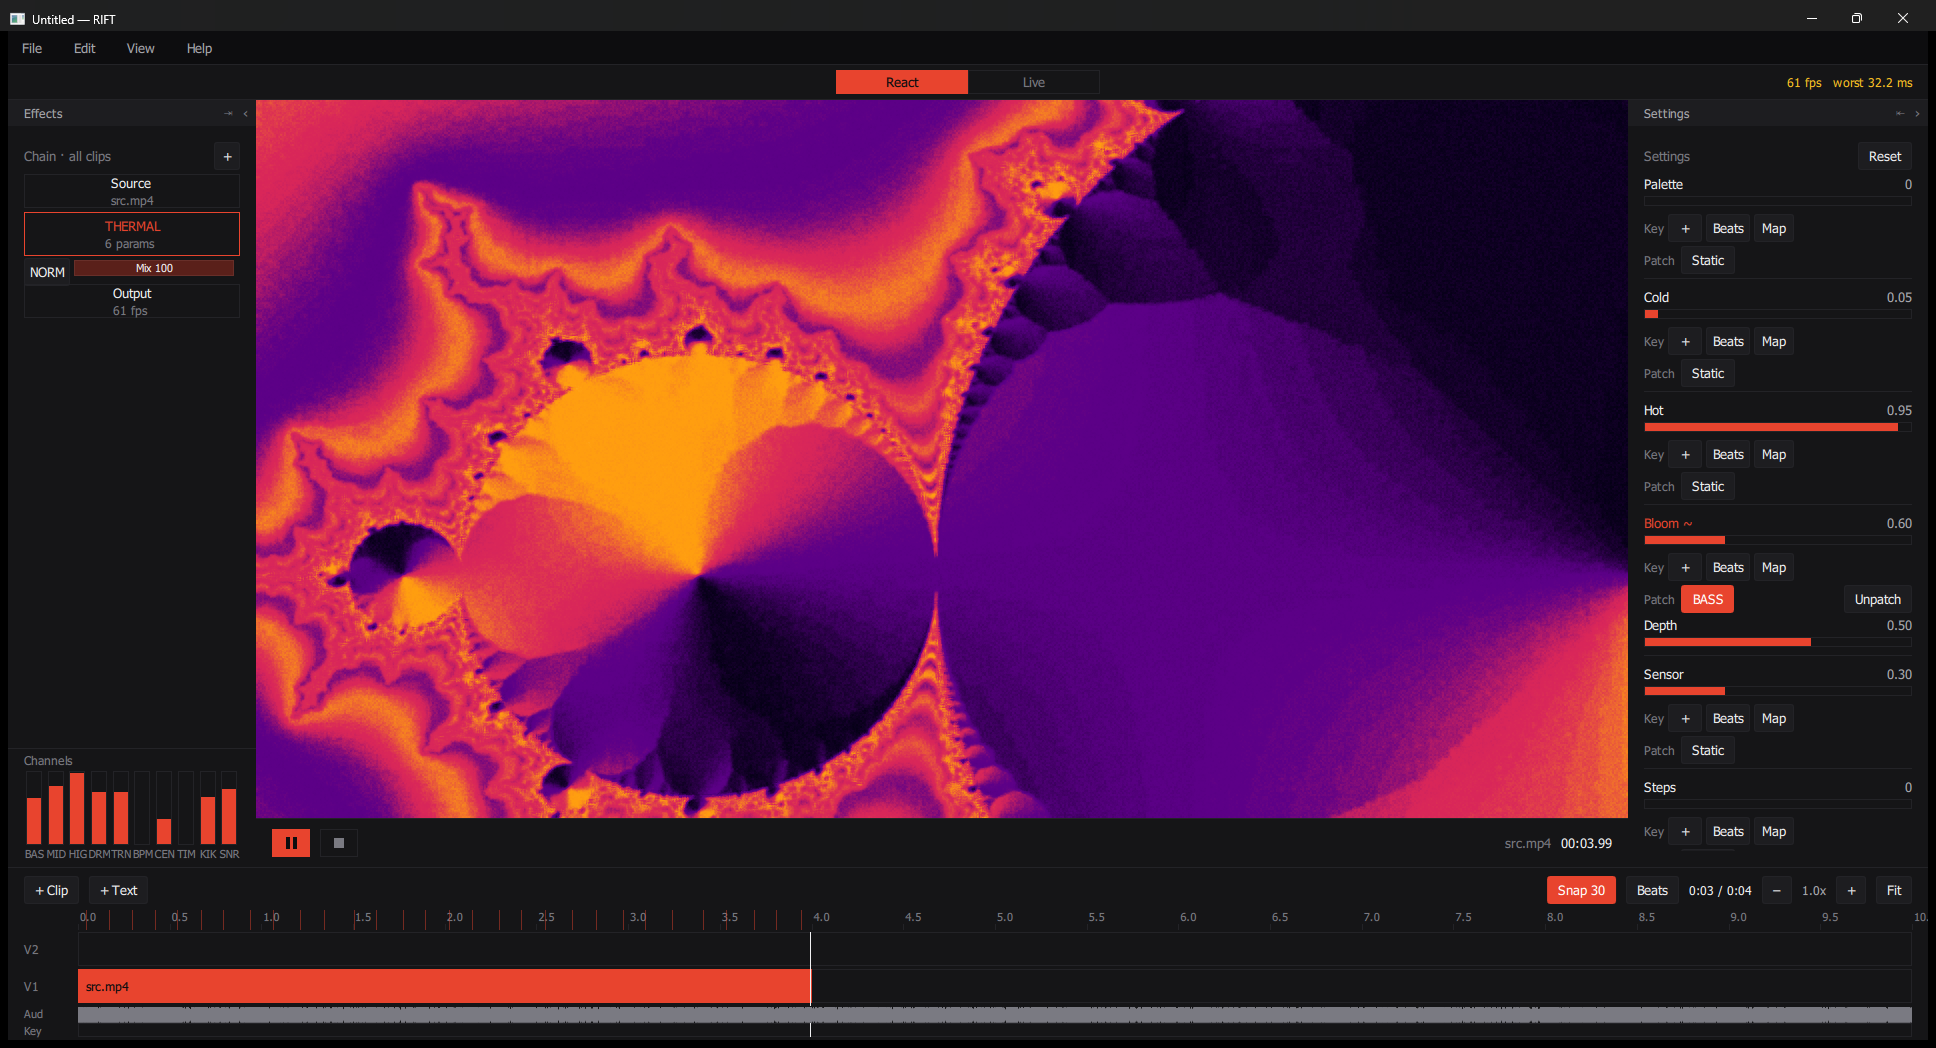
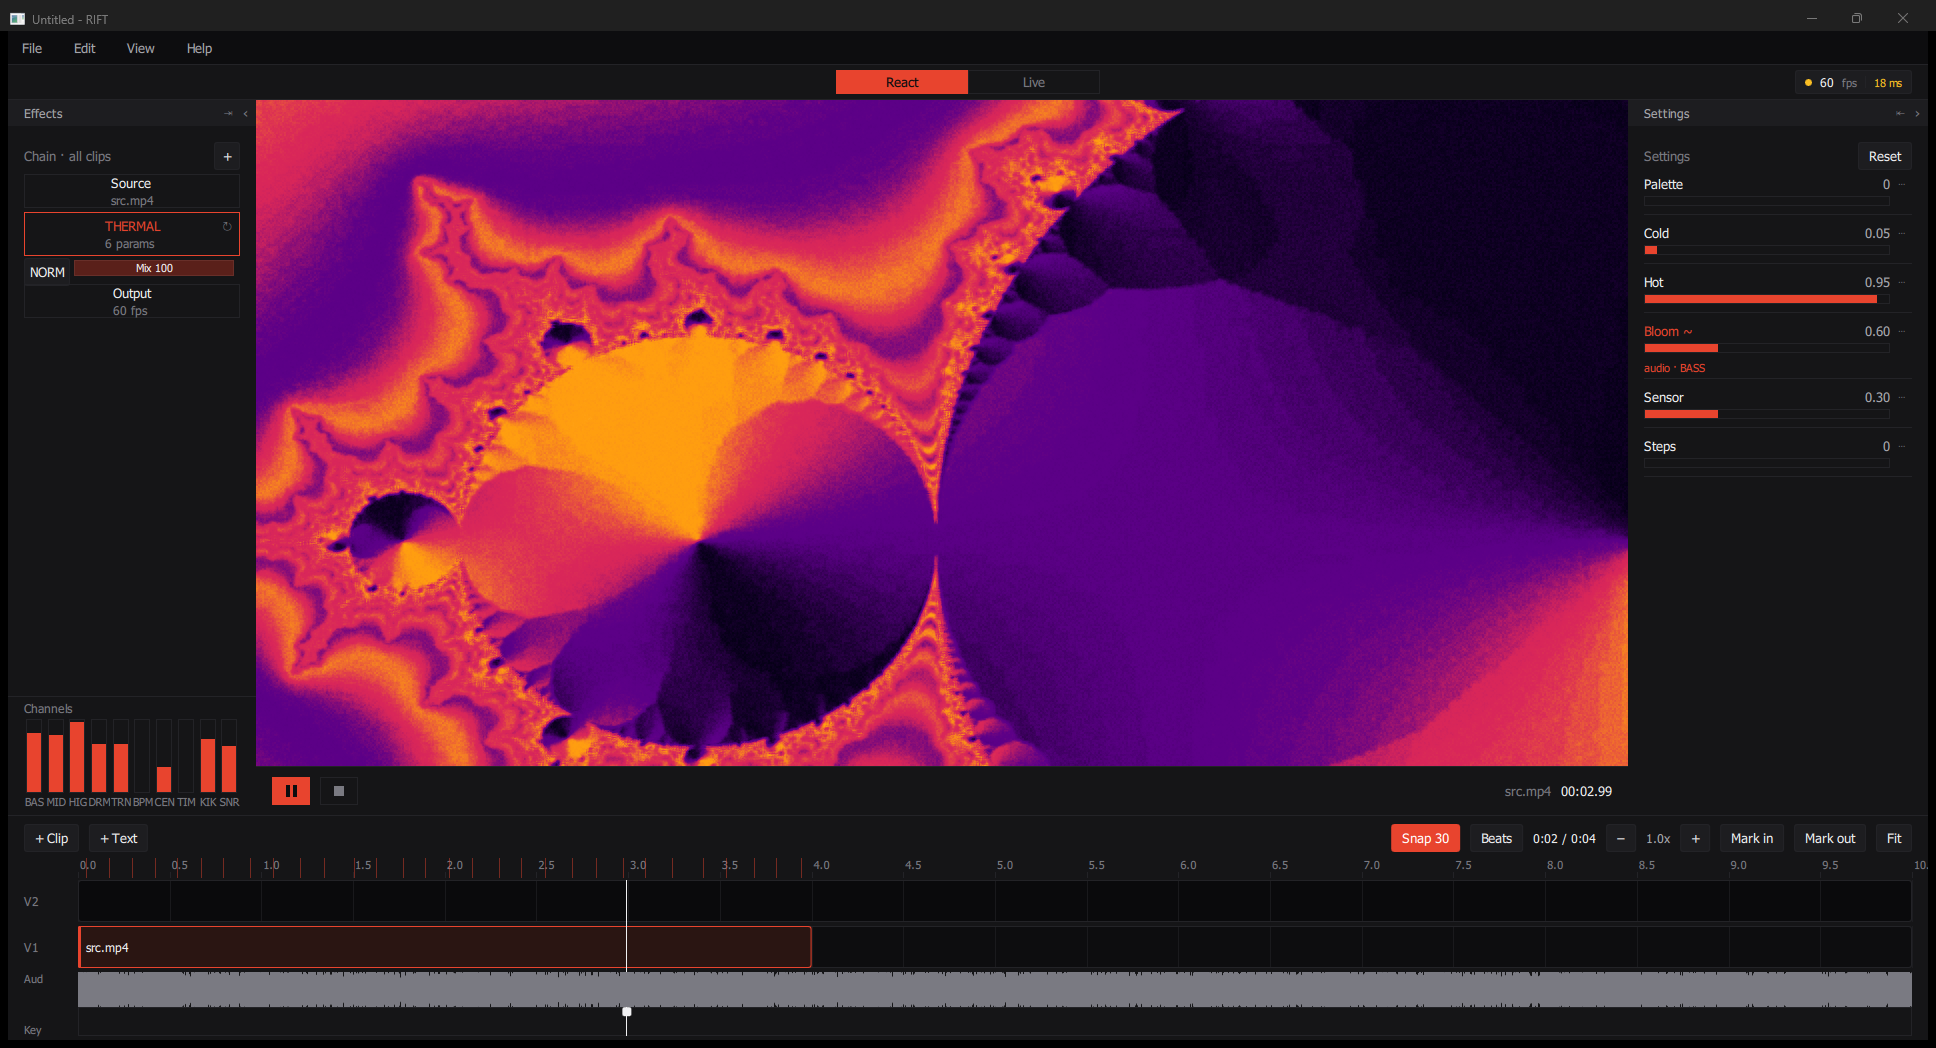
0.1.1 - fixes from the first round of testing
Exports no longer stop when the footage runs out, effects can be changed
in place, the settings panel is one row per parameter, the timeline reads
like a timeline, and a range can be marked for export.

diff --git a/CHANGELOG.md b/CHANGELOG.md
@@ -1,5 +1,44 @@
 # Changelog
 
+## 0.1.1 - 31 July 2026
+
+Fixes from the first round of testing.
+
+### Fixed
+
+- **Exports stopped when the footage ran out.** A 4 second clip under a 2 minute
+  track rendered a few seconds of picture and then two minutes of black. Footage
+  shorter than the piece now loops. Keyframes and audio reactivity keep running
+  forward on real time, so only the picture repeats.
+- **Export length ignored the audio** unless a pre-analysis file was present, so
+  a render could come out as long as the clip instead of as long as the track.
+  It now uses the decoded length, and runs to whichever of audio or footage is
+  longer.
+- **An effect could not be changed.** The only way to swap one was to add a
+  second effect and delete the first. Selected effects now carry a button that
+  reopens the picker and replaces them.
+- **Right-clicking a clip deleted it instantly.** It asks first.
+- A clip could be dragged to a negative start time, where it stopped following
+  the mouse with no explanation.
+
+### Changed
+
+- **Mark in / mark out.** Set a range on the timeline and the export renders
+  only that. Everything outside the marks is dimmed so the range is visible
+  without opening a dialog.
+- **Effect settings are no longer a wall of controls.** Every parameter used to
+  draw four rows; now it draws one, and the keyframe, audio and MIDI controls
+  open for the parameter you are working on.
+- **The timeline reads like a timeline** - filled lane beds so an empty lane is
+  a visible target, a time grid aligned to the ruler, taller lanes, a usable
+  keyframe lane, and a playhead with a head you can see. Clips are tinted with
+  an accent edge instead of a solid block that drowned their name.
+- **MIDI controls light up when they send**, so a controller confirms itself
+  where you are looking instead of on the far side of the window.
+- **The frame-rate readout** is a chip that matches the rest of the interface
+  rather than loose red text.
+- Plain hyphens instead of em dashes throughout.
+
 ## 0.1.0 - 31 July 2026
 
 First build shared for testing.

diff --git a/README.md b/README.md
@@ -54,7 +54,7 @@ stereometer, bands.*
 
 ## Download
 
-Grab the latest **`RIFT-0.1.0-setup.exe`** from
+Grab the latest **`RIFT-0.1.1-setup.exe`** from
 [**Releases**](../../releases/latest), run it, and you're done. Everything the
 app needs is inside - no Qt, no FFmpeg, no runtime to install separately.
 
